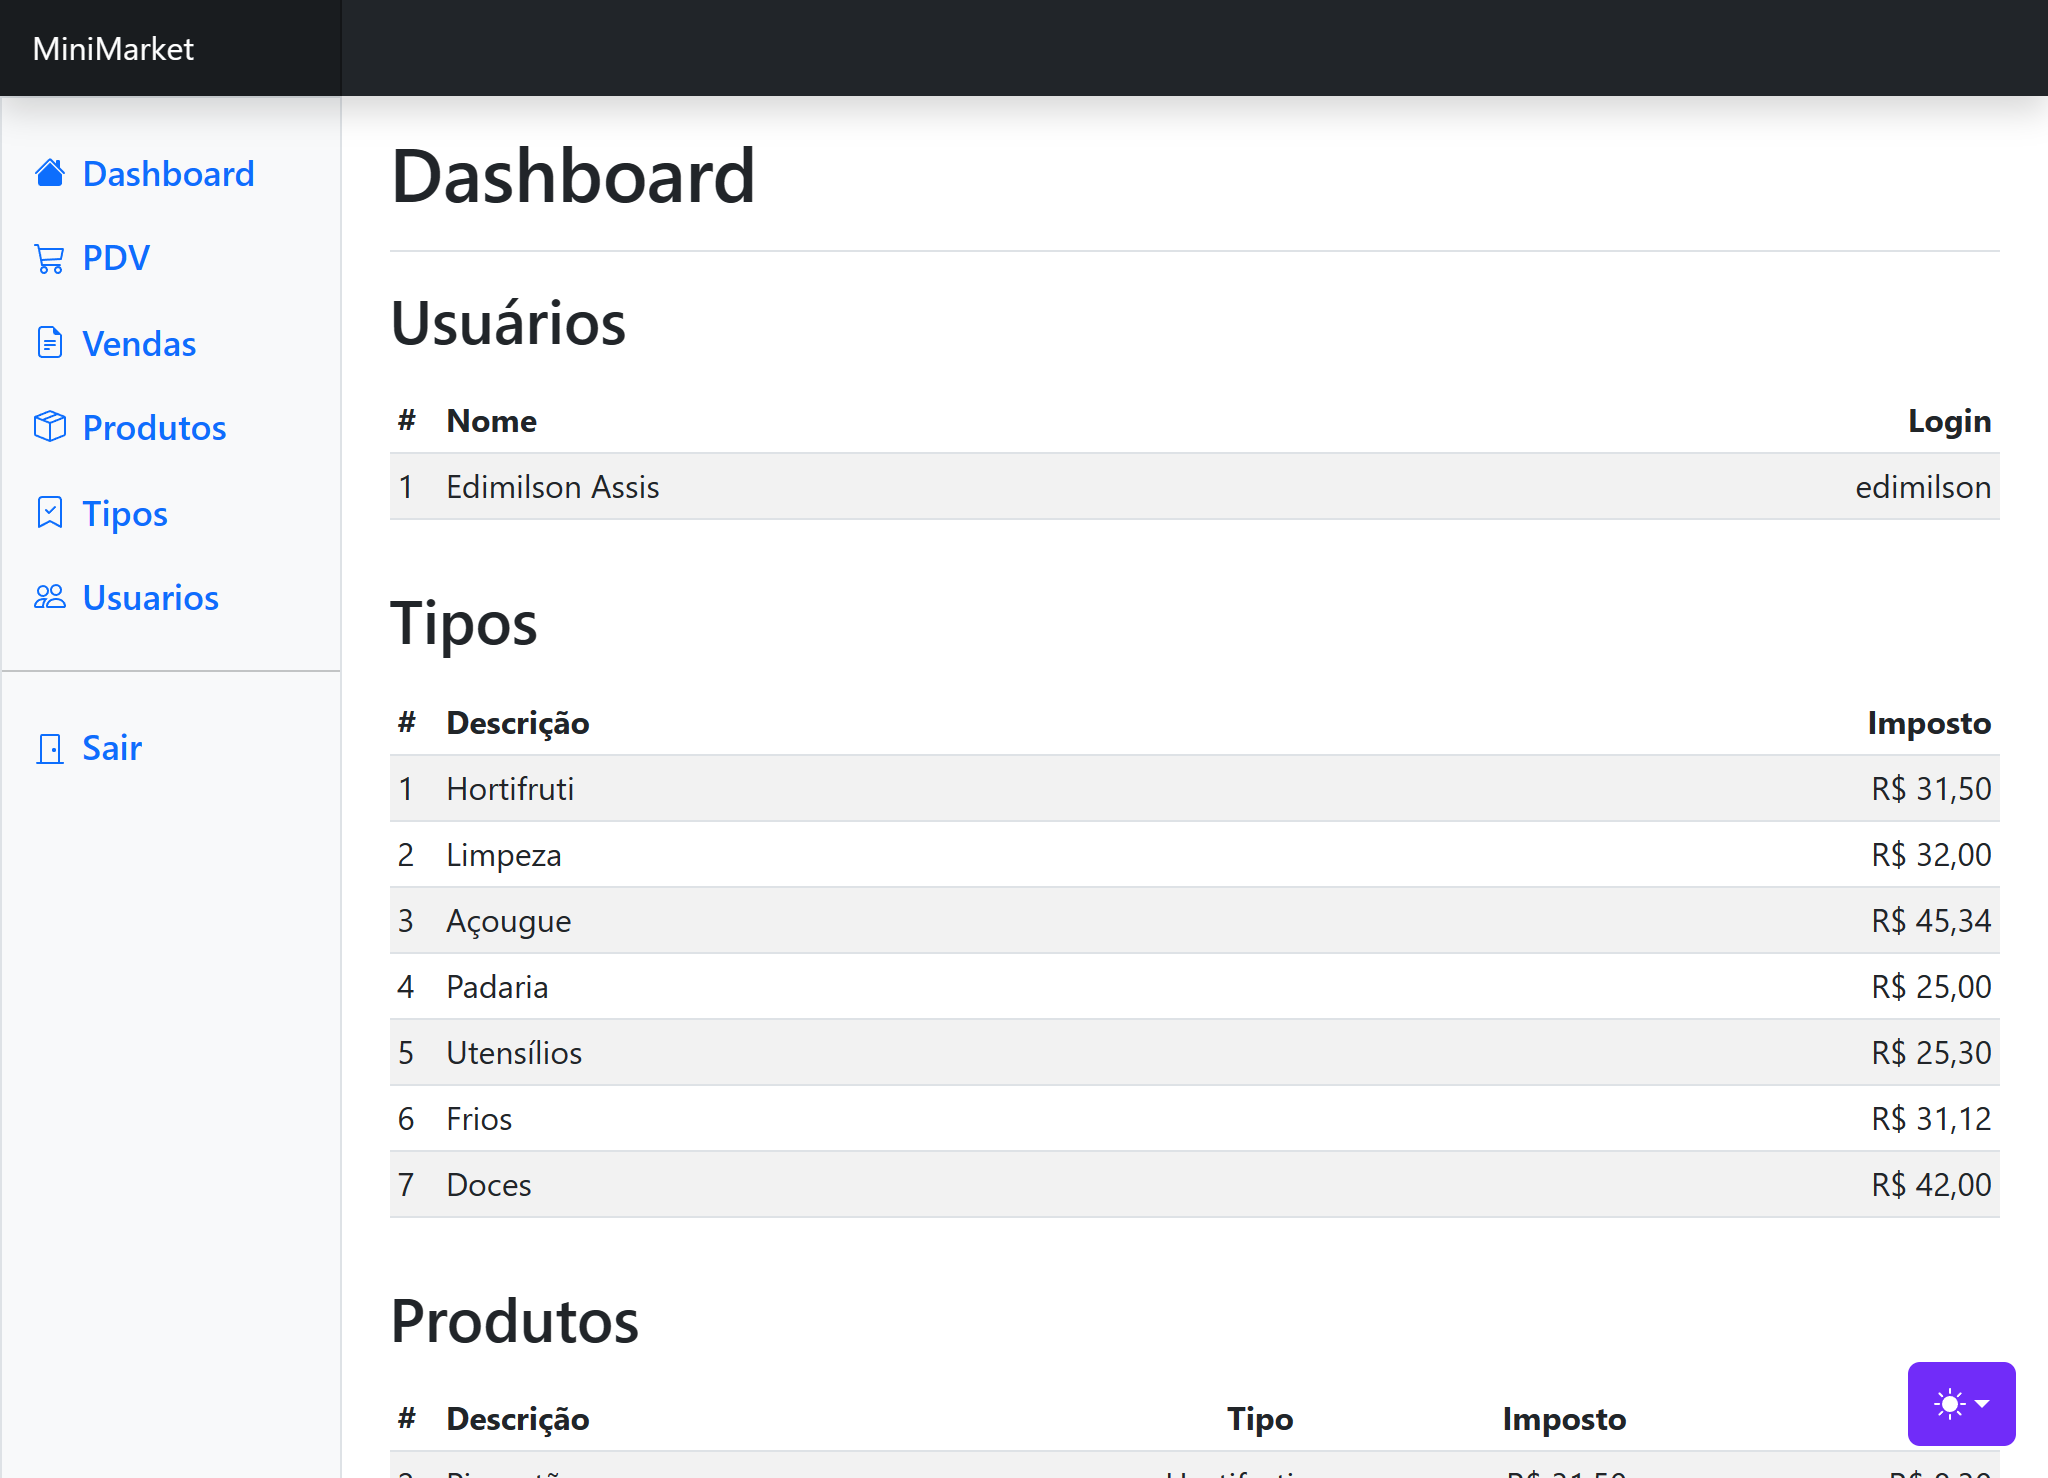
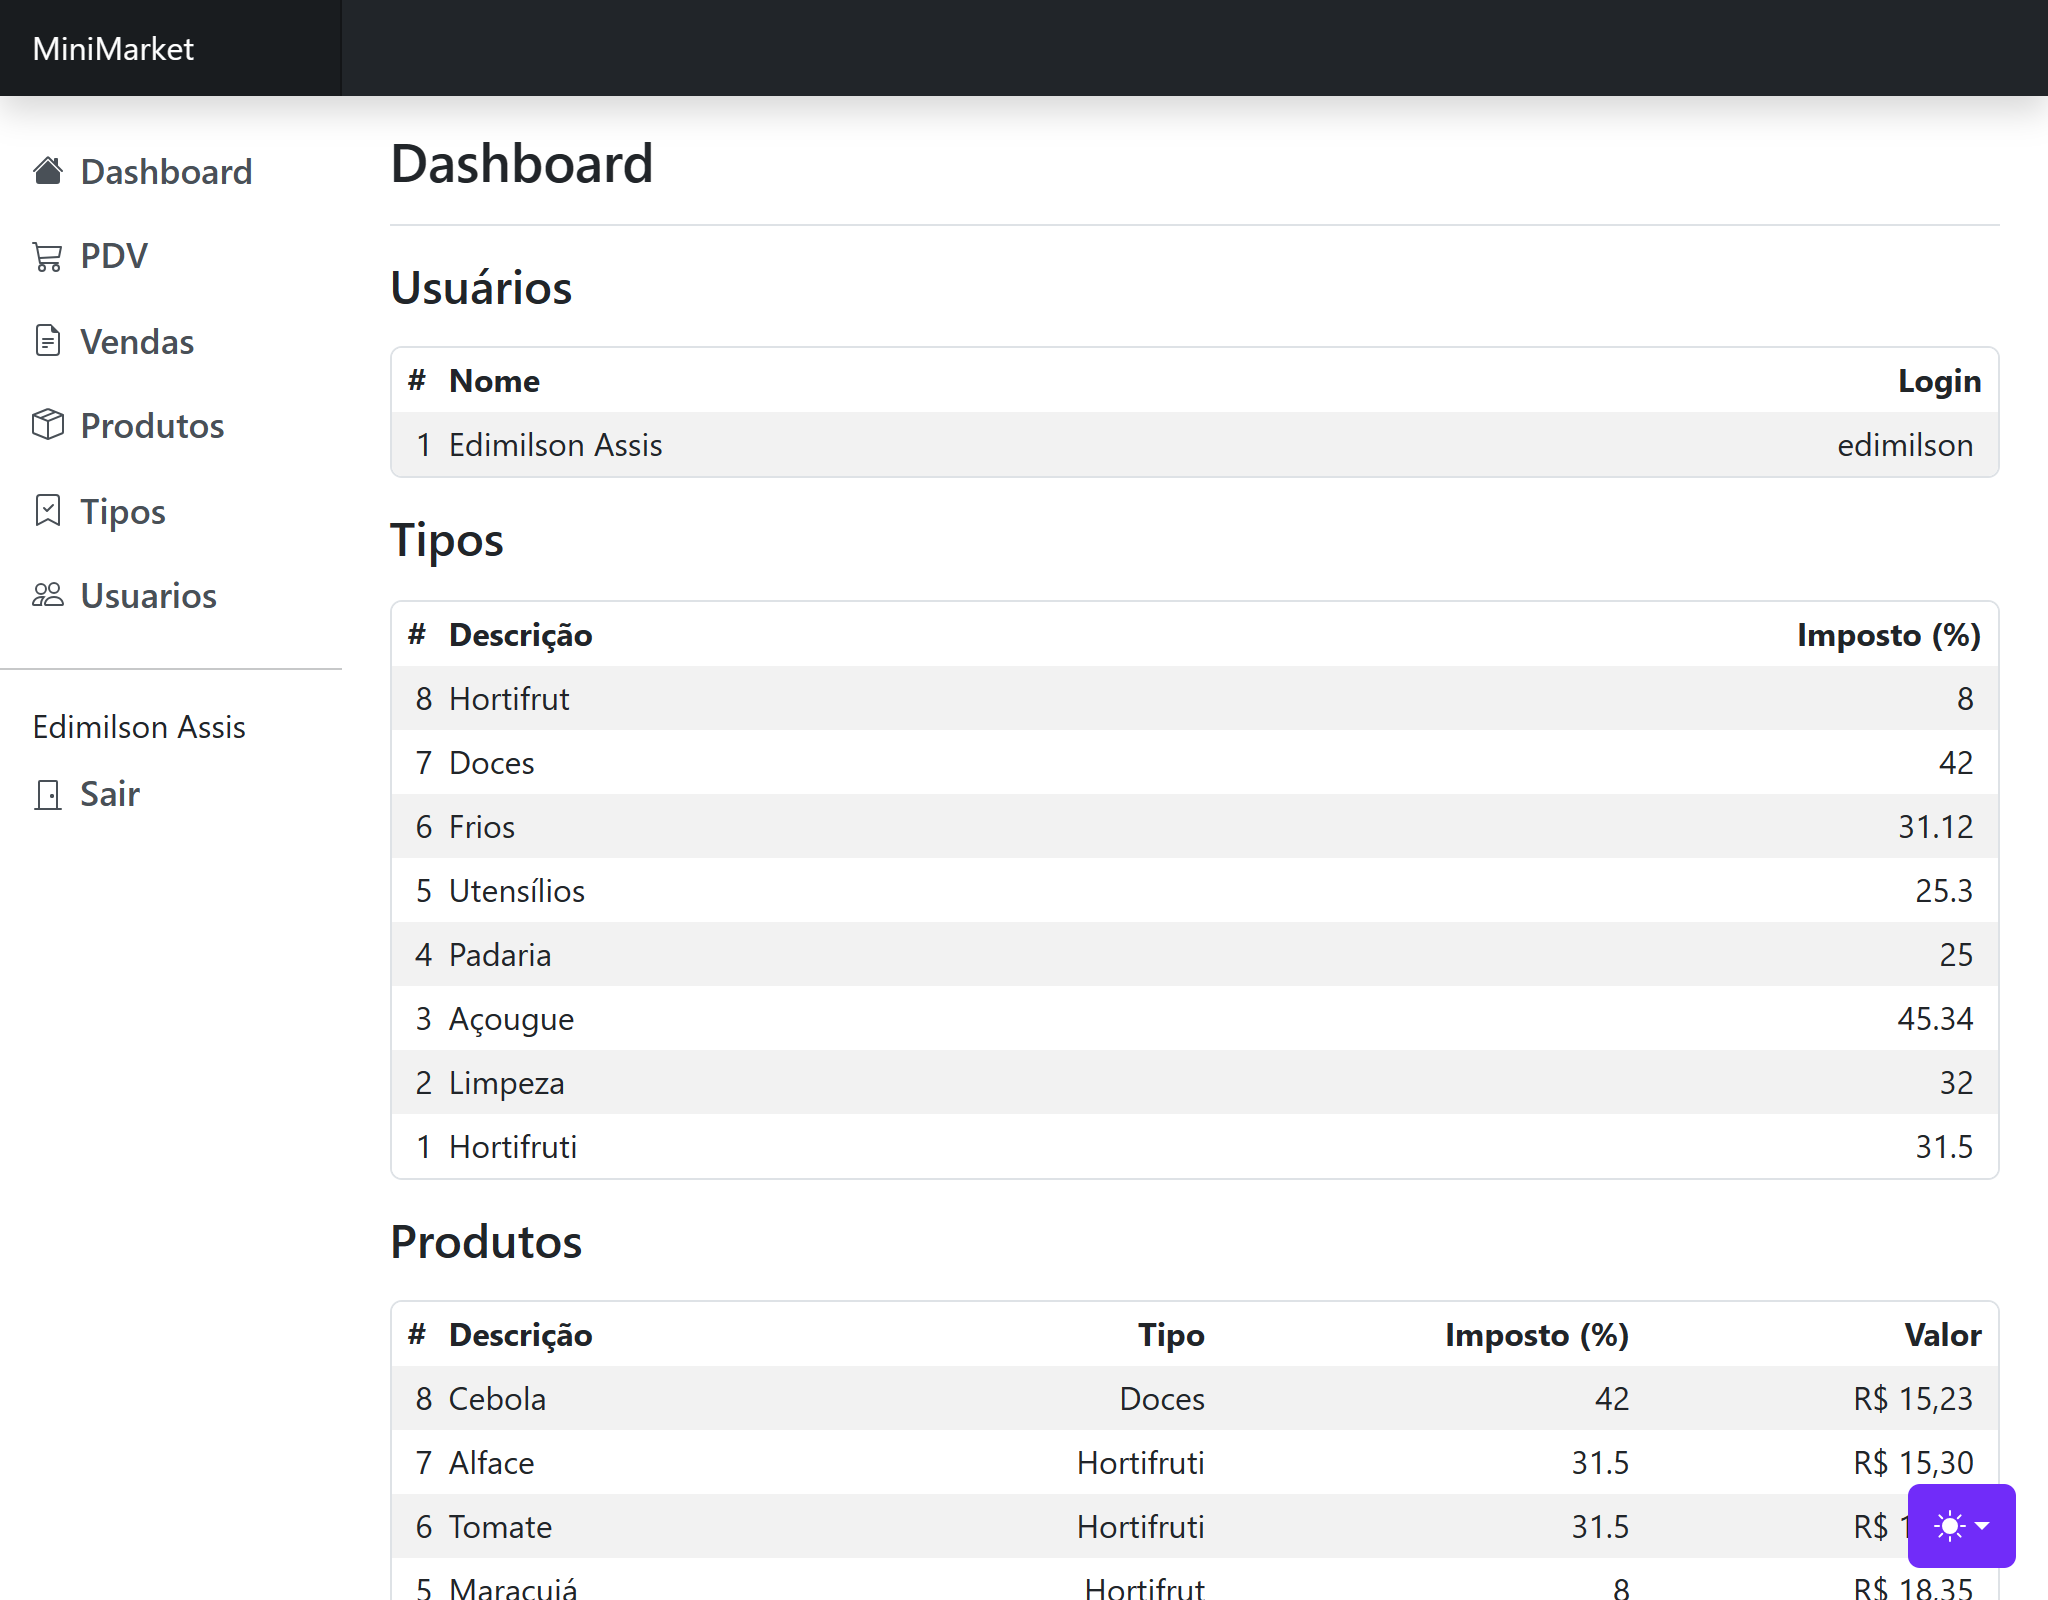
melhorias no design do pdv

diff --git a/backend/public/assets/js/pdv.js b/backend/public/assets/js/pdv.js
@@ -12,8 +12,10 @@ class PDV {
         resume: document.getElementById('resume'),
         table: {
             pdv: document.getElementById('table-items'),
+            table: document.querySelector('#table-items'),
             body: document.querySelector('#table-items tbody'),
-            row: document.querySelector('#table-items tbody tr'),
+            item: document.querySelector('#table-items tbody tr[for="item"]'),
+            empty: document.querySelector('#table-items tbody tr[for="empty"]'),
         }
     }
 
@@ -67,10 +69,19 @@ class PDV {
 
         this.el.table.body.innerHTML = ''
 
-        this.data.sale.items.forEach(data => {
-            const row = this.el.table.row.cloneNode(true)
+        if (!this.data.sale.items.length) {
+            this.el.table.table.classList.remove('table-striped', 'table-hover')
+            return this.el.table.body.append(this.el.table.empty.cloneNode(true))
+        }
 
-            row.querySelectorAll(`[data-key]`).forEach(el => el.fillDisplay(data))
+        this.el.table.table.classList.add('table-striped')
+
+        this.data.sale.items.reverse().forEach((data, index) => {
+            const row = this.el.table.item.cloneNode(true)
+
+            row.querySelectorAll('[data-key]').forEach(el => el.fillDisplay(data))
+
+            row.querySelector('[data-key="index"]').textContent = this.data.sale.items.length - (index)
 
             this.el.table.body.append(row)
         });

diff --git a/backend/public/assets/css/main.css b/backend/public/assets/css/main.css
@@ -1,3 +1,33 @@
+.table-responsive {
+  border-radius: var(--bs-border-radius);
+  margin-bottom: 0px !important;
+  border: var(--bs-border-width) var(--bs-border-style) var(--bs-border-color) !important;
+}
+
+.table-responsive table {
+  margin-bottom: 0px !important;
+}
+
+.table>:not(caption)>*>* {
+  border-bottom-width: 0 !important;
+}
+
+.table-responsive th:first-child {
+  padding-left: 0.5rem !important;
+}
+
+.table-responsive td:first-child {
+  padding-left: 0.5rem !important;
+}
+
+.table-responsive th:last-child {
+  padding-right: 0.5rem !important;
+}
+
+.table-responsive td:last-child {
+  padding-right: 0.5rem !important;
+}
+
 .bd-placeholder-img {
   font-size: 1.125rem;
   text-anchor: middle;

diff --git a/backend/models/SalesItems.php b/backend/models/SalesItems.php
@@ -40,7 +40,7 @@ class SalesItems extends Model
 
         $result = self::query()
             ->where('"sls_ite_id_sale" = :sls_ite_id_sale')
-            ->orderBy('"sls_ite_id" desc')
+            // ->orderBy('"sls_ite_id" desc')
             ->bind($data)
             ->select()
             ->fetchAll(\PDO::FETCH_CLASS, self::class);
